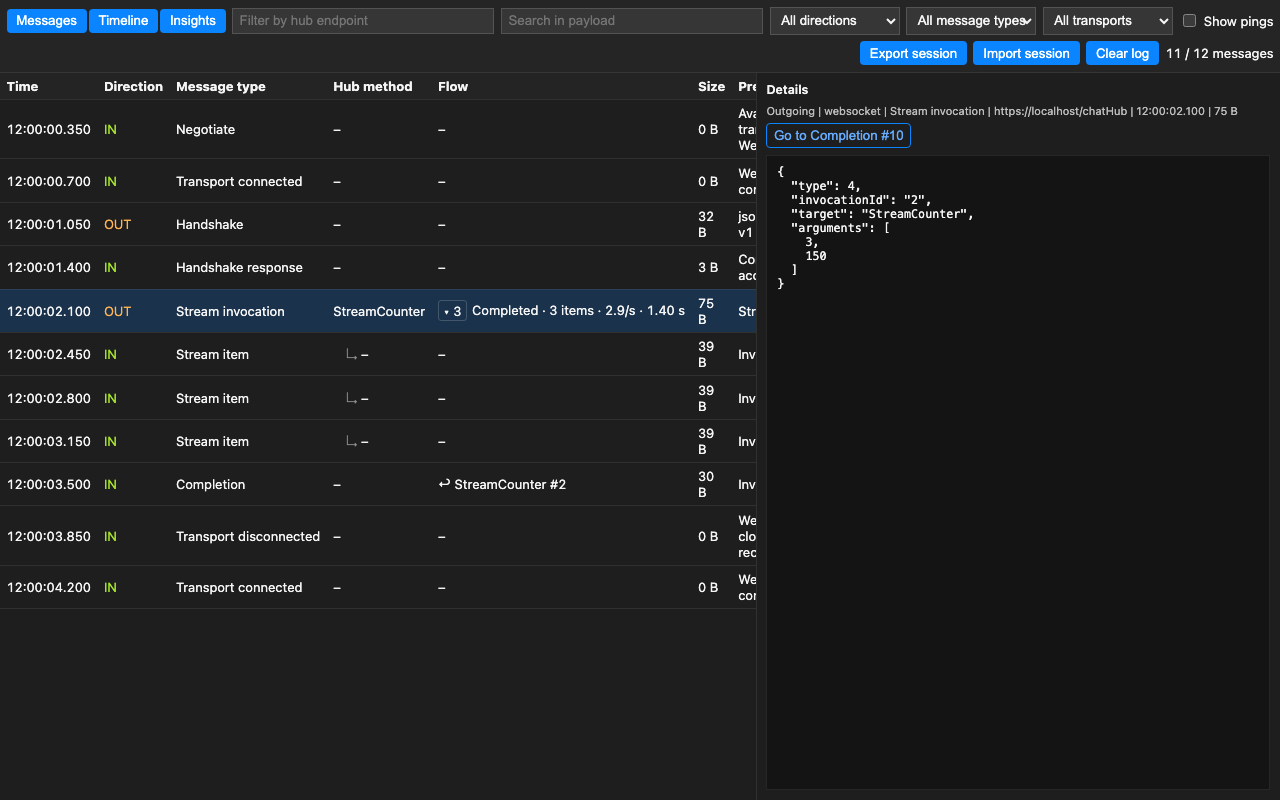
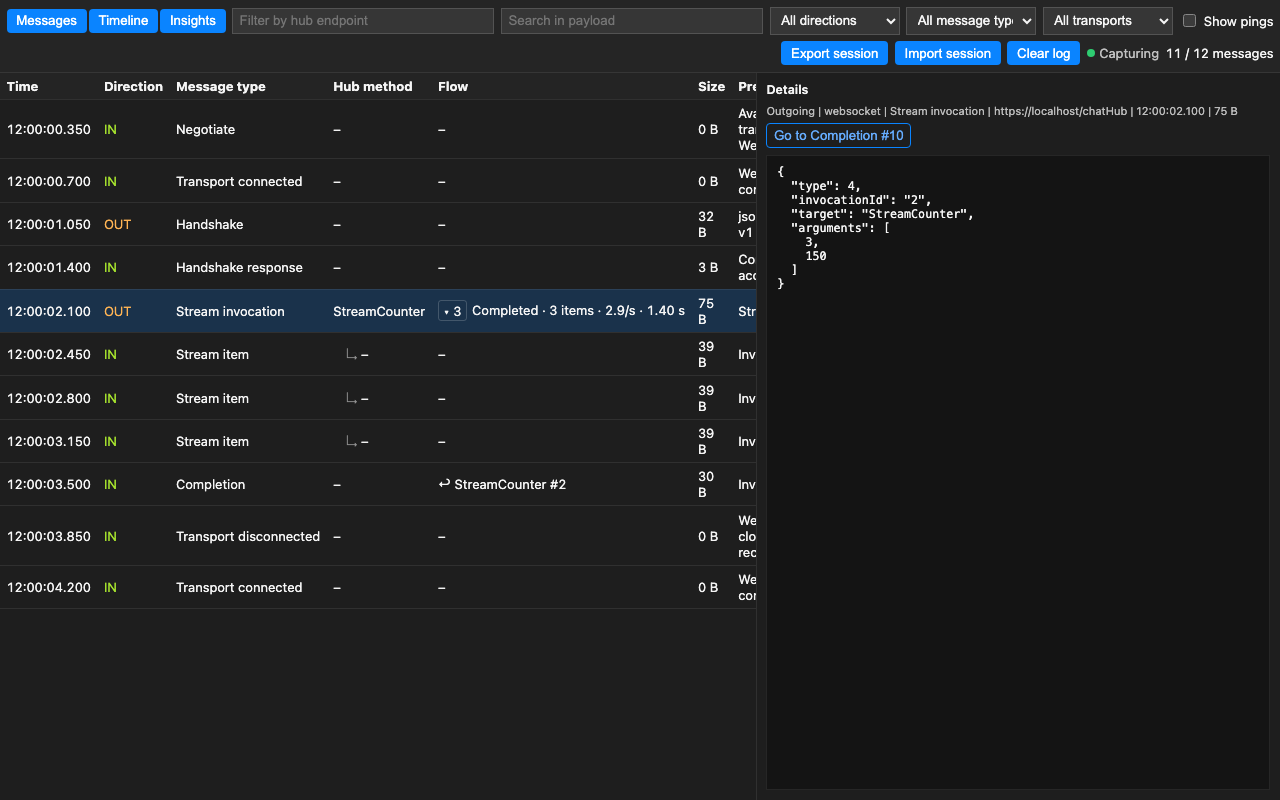
build: encode the demo GIF in pure JavaScript and refresh the assets
Swaps the macOS-only Swift ImageIO encoder for gifenc + pngjs, so the
demo generator runs anywhere Node does and the repository is
single-language again. The regenerated GIF and store screenshots show
the current panel, including the capture-state indicator (the harness
now reports an active capture status before shooting).

Changed region(s): [[0.5938, 0.0312, 0.9062, 0.0938]]

diff --git a/signalr-inspector/README.md b/signalr-inspector/README.md
@@ -33,7 +33,8 @@ manual browser smoke test.
 SignalR records through its normal port handler, asserts ping hiding, reconnect rendering, and
 Insights warnings, and regenerates the README GIF, three 1280×800 store screenshots, and a separate
 Insights screenshot. Set `CHROME_PATH` when the browser is not installed in a standard location.
-GIF encoding currently uses the macOS Swift toolchain.
+GIF encoding is pure JavaScript (`gifenc` + `pngjs`), so the generator has no platform-specific
+toolchain requirements.
 
 Load this directory through `chrome://extensions` in Chrome or `edge://extensions` in Edge to test
 changes. Open DevTools and the SignalR Inspector panel before activating the toolbar action so

diff --git a/CHANGELOG.md b/CHANGELOG.md
@@ -7,6 +7,15 @@ Version entries record changes committed to the extension package. A version is 
 distributed only after its own store submission or a tagged GitHub release; a changelog entry
 alone does not publish anything.
 
+## [0.16.1] - 2026-08-12
+
+### Changed
+
+- Replace the macOS Swift GIF encoder in the demo-asset generator with a pure JavaScript
+  pipeline (`gifenc` + `pngjs`), removing the repository's only non-JavaScript source file and
+  the platform requirement. Regenerated the README demo GIF and store screenshots from the
+  current panel, which now also showcase the capture-state indicator.
+
 ## [0.16.0] - 2026-08-12
 
 ### Changed
